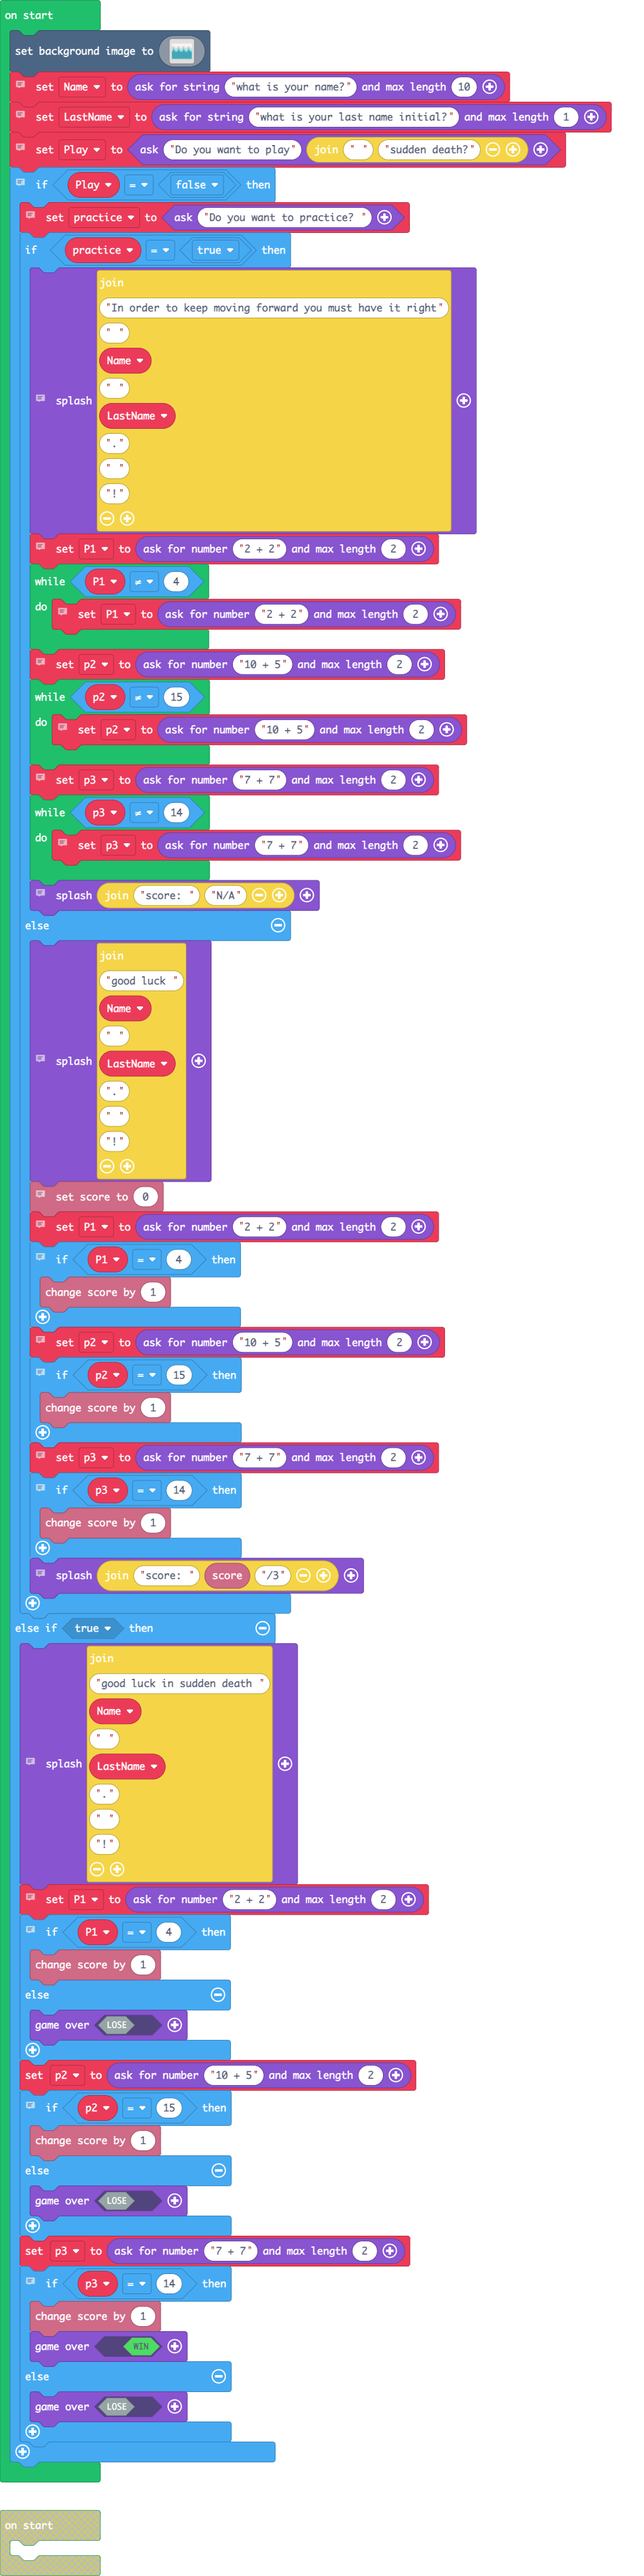
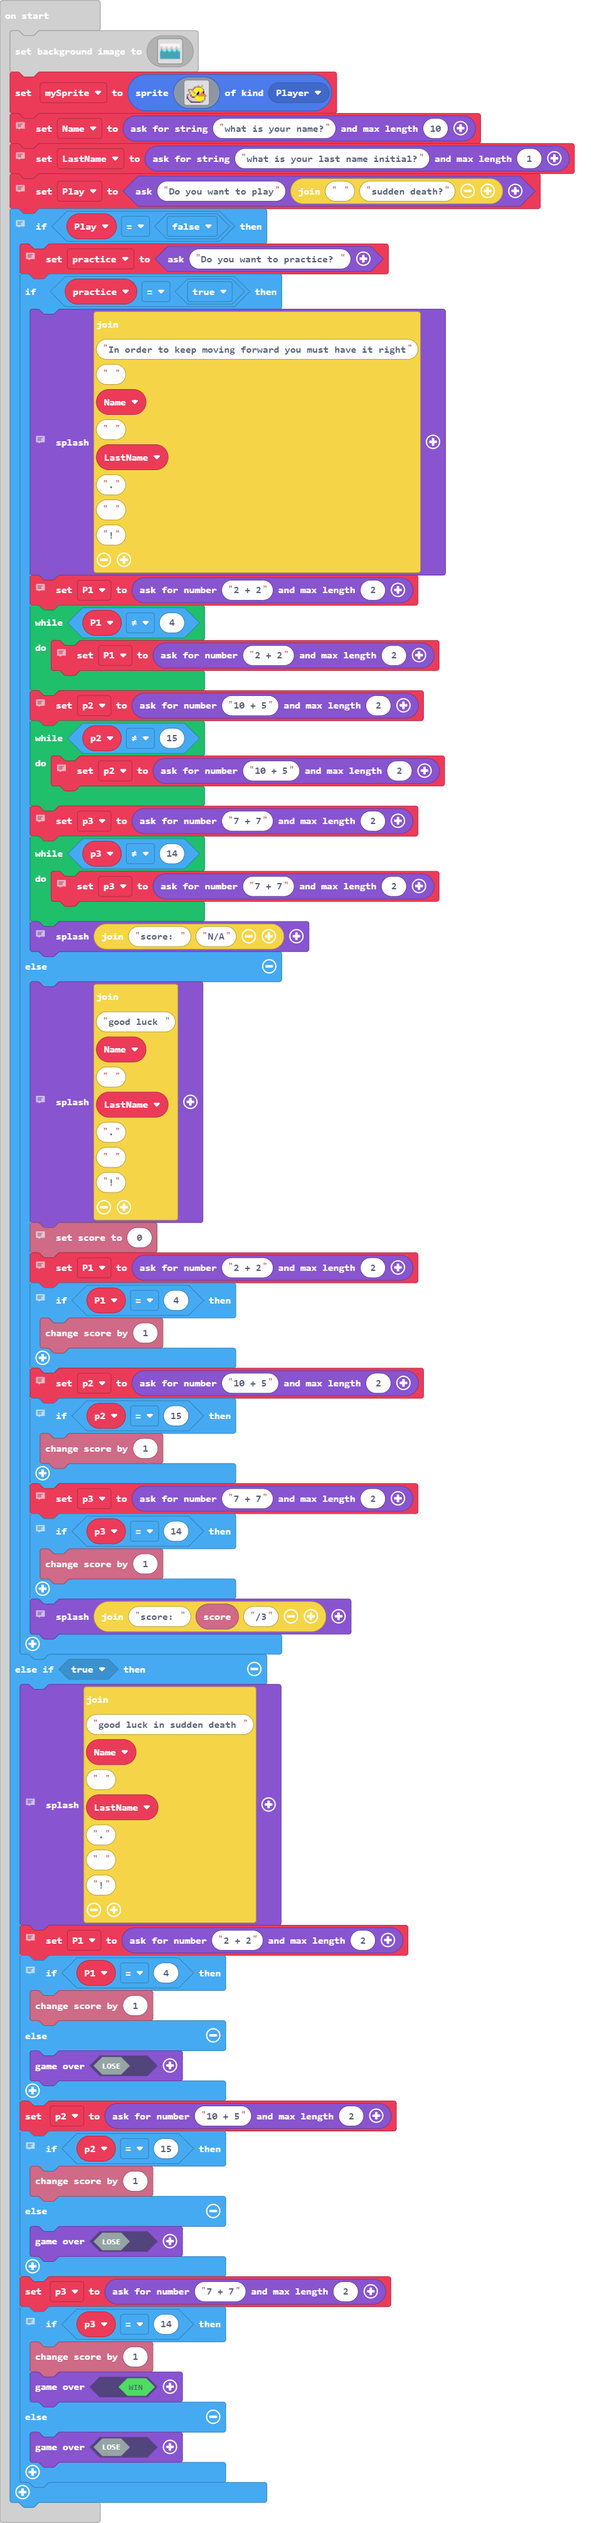
Update main.blocks, main.ts

diff --git a/main.ts b/main.ts
@@ -124,6 +124,24 @@ scene.setBackgroundImage(img`
     6666666666666666666666666666666666666666666666666666666666666666666666666666666666666666666666666666666666666666666666666666666666666666666666666666666666666666
     6666666666666666666666666666666666666666666666666666666666666666666666666666666666666666666666666666666666666666666666666666666666666666666666666666666666666666
     `)
+let mySprite = sprites.create(img`
+    . . . . . . . . . . . . . . . . 
+    . . . . . . . . . . . . . . . . 
+    . . . . . . . . . b 5 5 b . . . 
+    . . . . . . b b b b b b . . . . 
+    . . . . . b b 5 5 5 5 5 b . . . 
+    . b b b b b 5 5 5 5 5 5 5 b . . 
+    . b d 5 b 5 5 5 5 5 5 5 5 b . . 
+    . . b 5 5 b 5 d 1 f 5 d 4 f . . 
+    . . b d 5 5 b 1 f f 5 4 4 c . . 
+    b b d b 5 5 5 d f b 4 4 4 4 b . 
+    b d d c d 5 5 b 5 4 4 4 4 4 4 b 
+    c d d d c c b 5 5 5 5 5 5 5 b . 
+    c b d d d d d 5 5 5 5 5 5 5 b . 
+    . c d d d d d d 5 5 5 5 5 d b . 
+    . . c b d d d d d 5 5 5 b b . . 
+    . . . c c c c c c c c b b . . . 
+    `, SpriteKind.Player)
 // asks for name of user and saves for later
 let Name = game.askForString("what is your name?", 10)
 // asks for last name of user and saves for later
